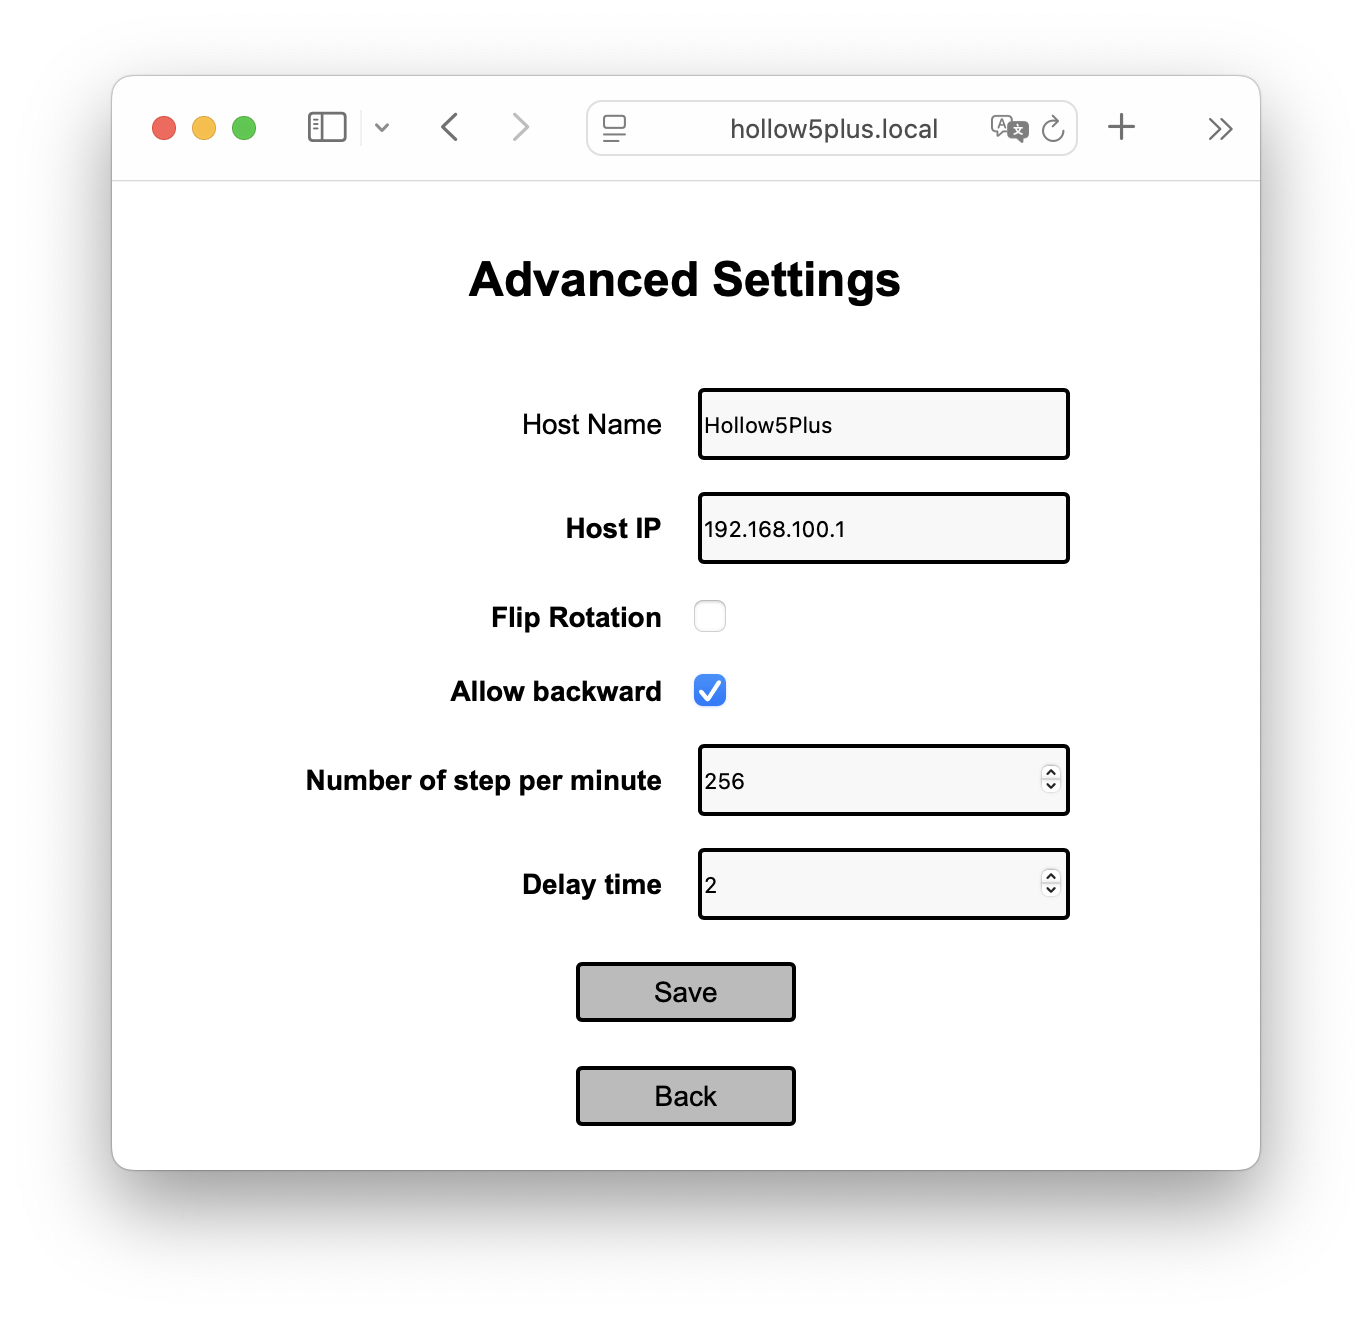
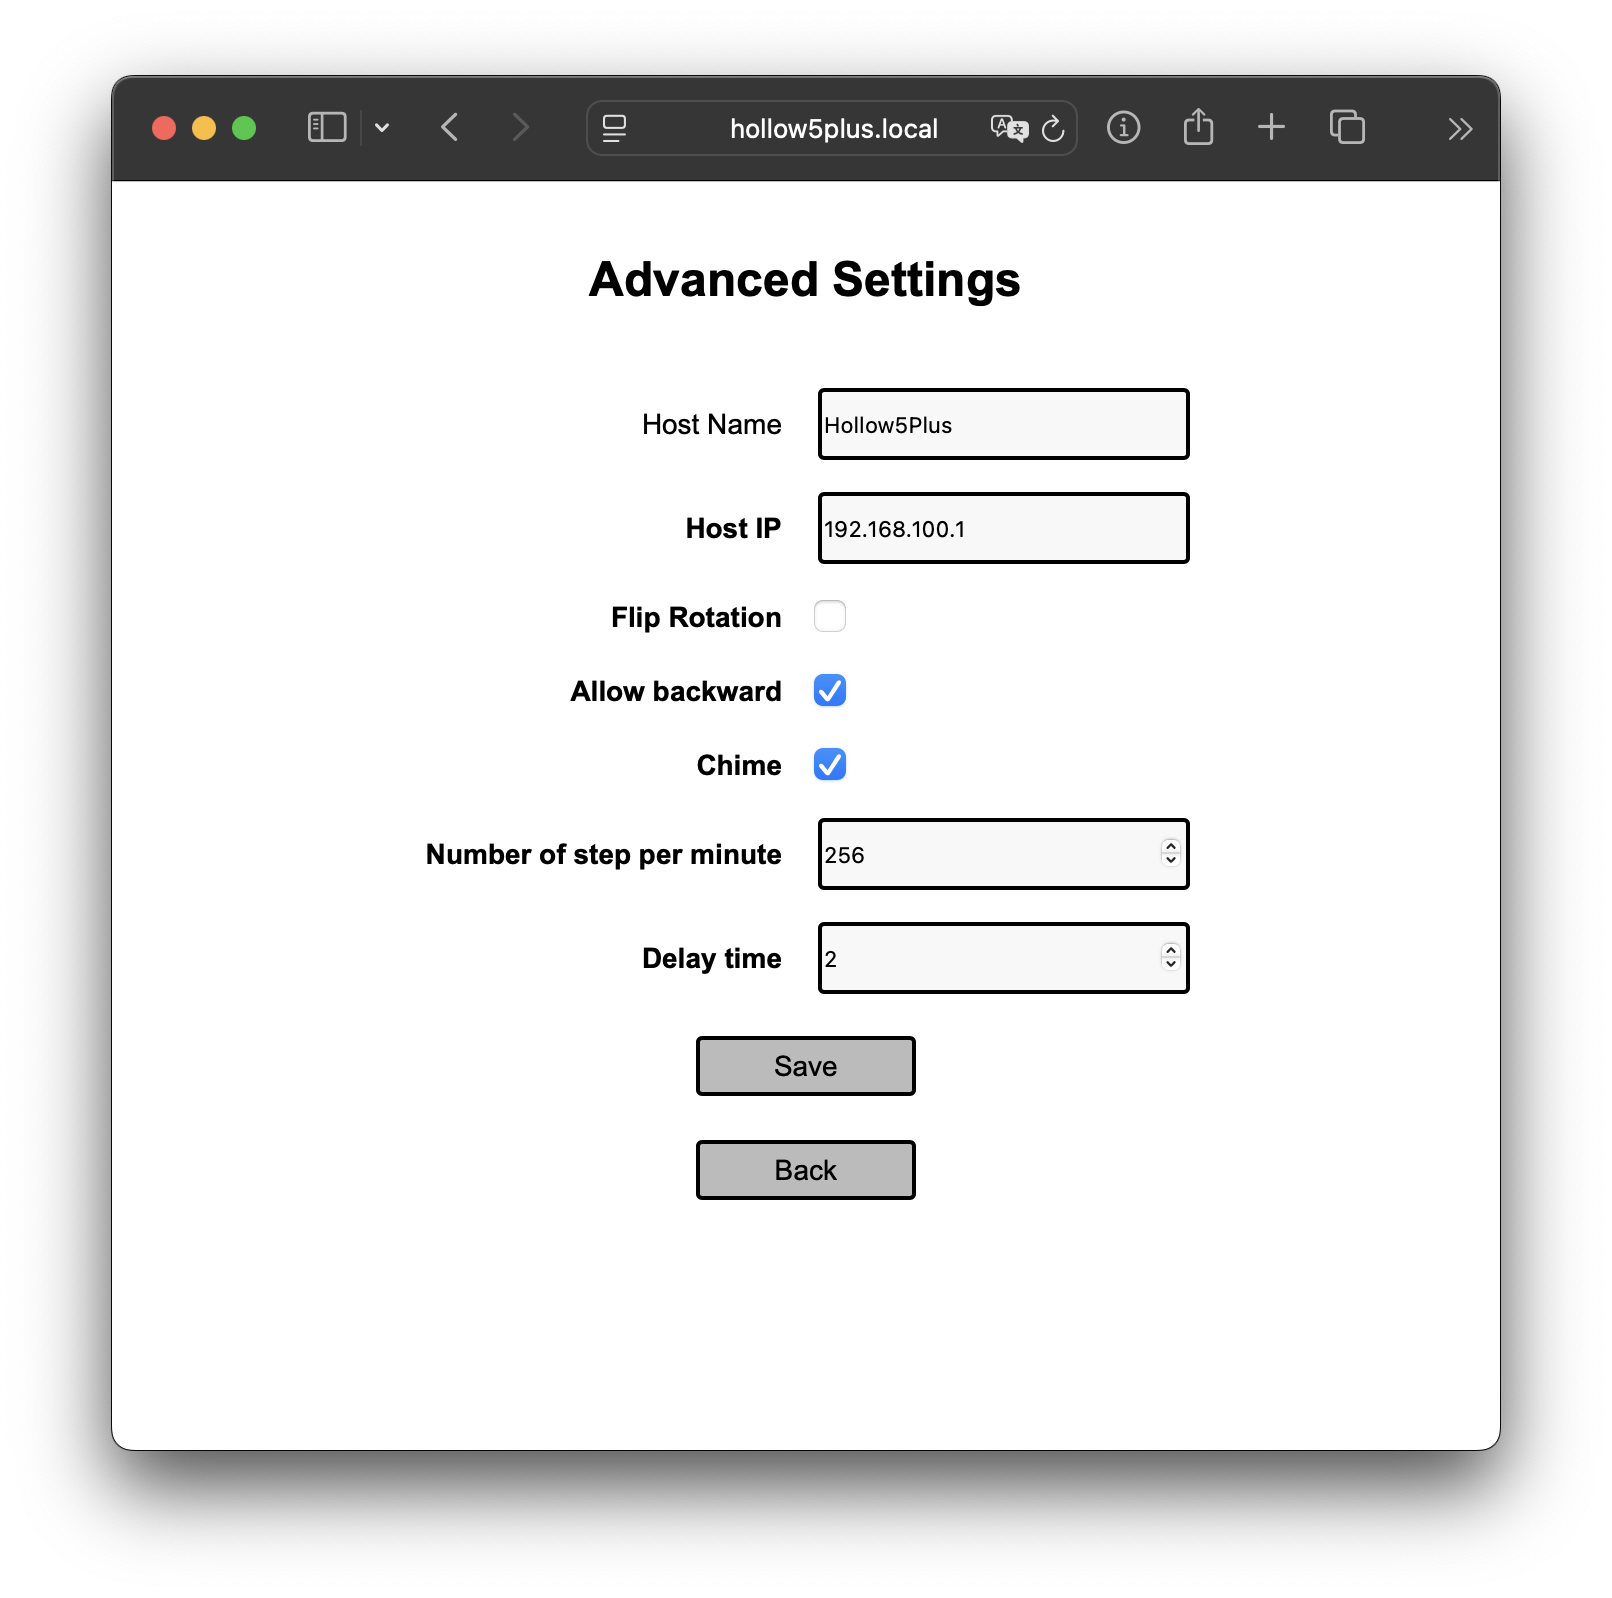
Modified README and replaced a screenshot with new option

diff --git a/README.md b/README.md
@@ -8,6 +8,9 @@ The original project is maintained at [here](https://www.thingiverse.com/thing:6
 
 The code has been developed for the [SeedStudio XIAO](https://www.seeedstudio.com/Seeed-Studio-XIAO-ESP32C6-p-5884.html), but other ESP-based microcontrollers should work out of the box.
 
+[2025-01-13] New option has been added - chime sound
+In addition when clock connects to the acces point it plays short music ;)
+
 ## Compile
 
 To compile the code, follow these steps:
